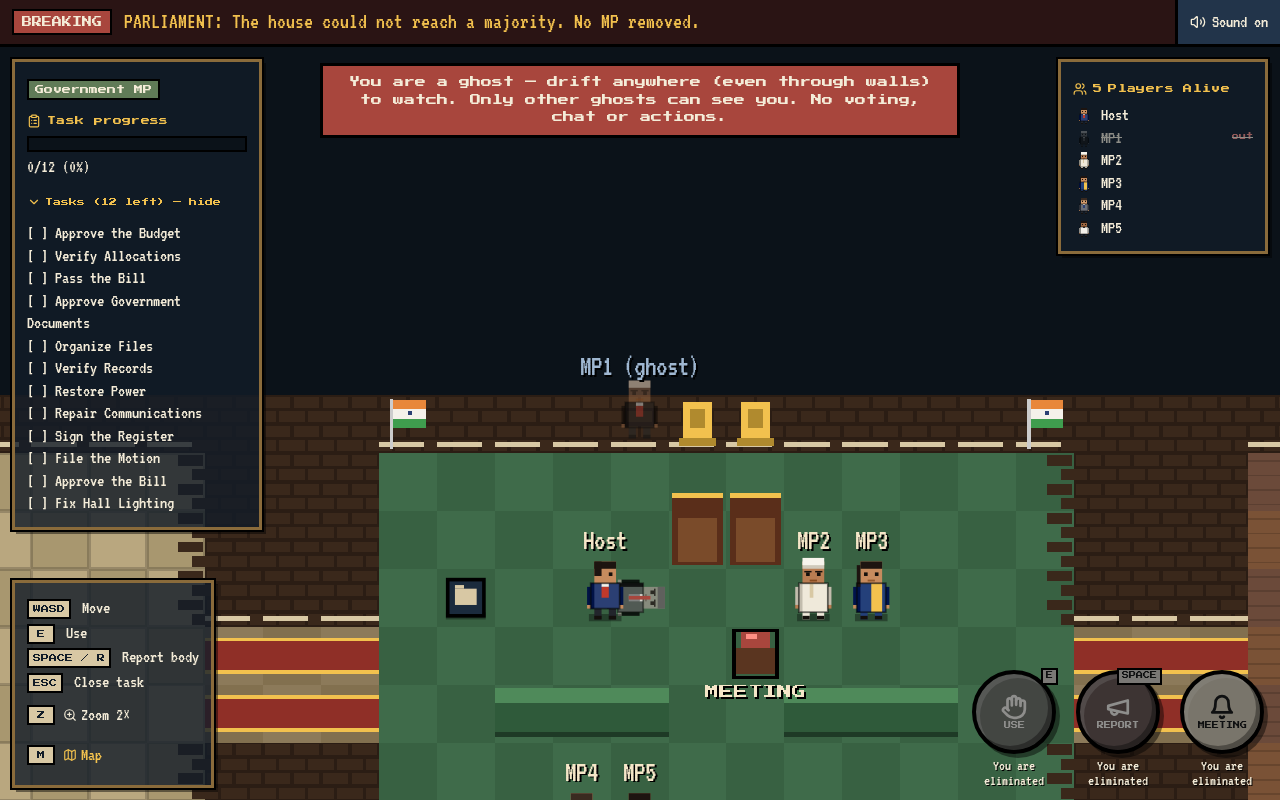
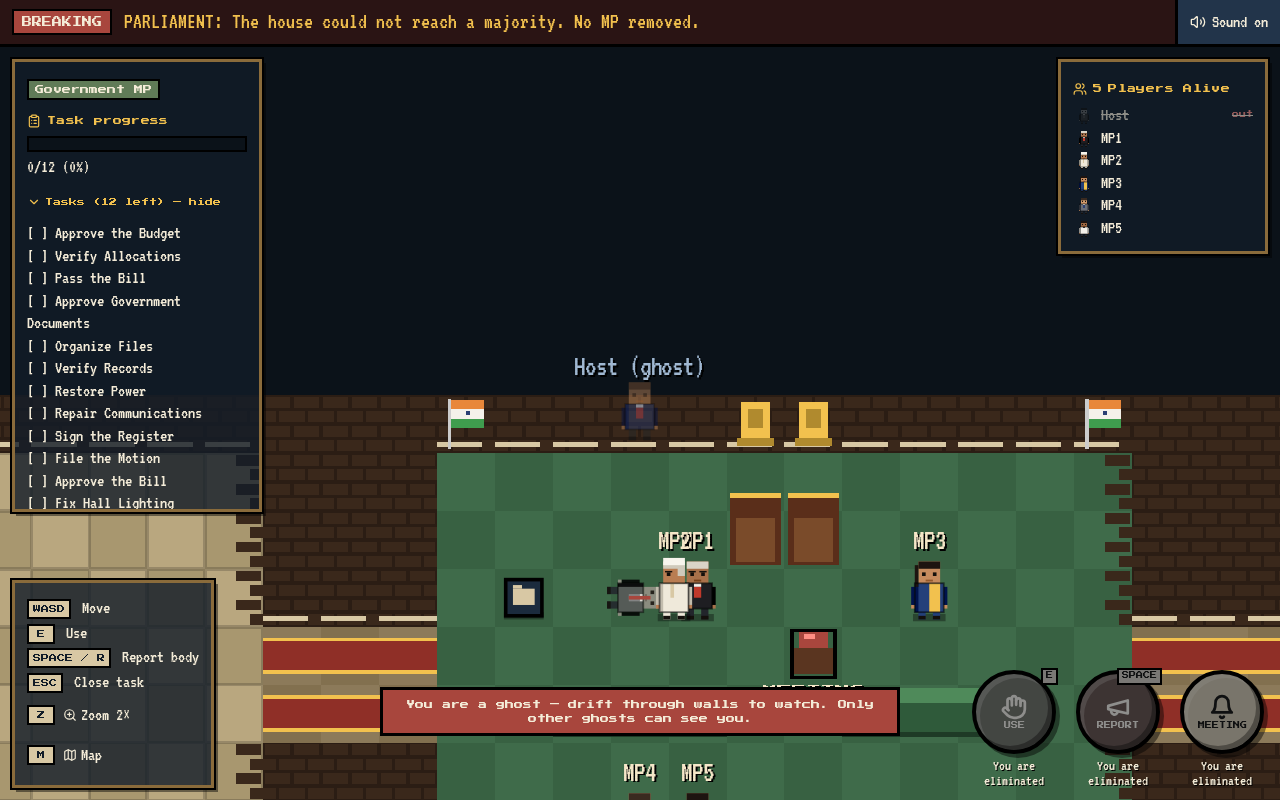
## All 4 features have been developed and successfully passed initial tests
- **Spectator Ghosts:** eliminated players can drift anywhere on the map, even through walls, shown as faded floating characters labelled "(ghost)".
  - Only other eliminated players can see a ghost move. Living players only see the spot where the player fell, so ghosts can't tip off the living.
  - Ghosts still can't use tasks, report, vote or chat. The eliminated banner is now a single slim line at the bottom of the screen.
- **Map Overlay:** press M, or click Map in the bottom-left controls, to see the full Parliament map.
  - It shows room names, a "YOU" marker and every station marked Open, Done or Offline (leak). Other players are not shown.
  - Press M or Esc to close. Your character doesn't move while the map is open.
- **Leak Clue:** when a meeting follows a Document Leak, every player sees a card: "X was last seen at the File the Motion station…".
  - It starts on the agent who leaked the files. Any living player who later walks up to the offline station takes the blame instead.
  - It only counts someone walking up to the station, not someone already standing there. It clears after each meeting.
- **Shared Clock:** each browser checks the time against the server when it connects, when a match starts and every 60 seconds. Every countdown uses this, including cooldowns, meeting timers and the Power Cut and Document Leak banners.
  - In testing, browsers set 90s fast, 2 minutes slow, 45s fast and 1 minute slow showed synchronization within 1 second.

**Tests:**
[…]

diff --git a/server/src/game/Match.ts b/server/src/game/Match.ts
@@ -116,7 +116,7 @@ export class Match {
   }
 
   /** `ghostView` = real ghost positions (sent only to eliminated players). */
-  publicPlayers(ghostView = true): PublicPlayer[] {
+  publicPlayers(ghostView = false): PublicPlayer[] {
     return [...this.players.values()].map((p) => ({
       id: p.id,
       name: p.name,
@@ -131,7 +131,7 @@ export class Match {
     }))
   }
 
-  view(ghostView = true): ClientMatchView {
+  view(ghostView = false): ClientMatchView {
     return {
       roomCode: this.roomCode,
       state: this.state,
@@ -372,8 +372,8 @@ export class Match {
     } else {
       duration = MATCH_SETTINGS.documentLeakDurationMs
       this.sabotage = { powerStatus: 'ON', powerRestoreAt: null, disabledTaskIds: [leakTask!.taskId], leakEndsAt: now + duration }
-      const nearest = this.livingPlayers.sort((a, b) => distance(a.position, leakTask!.position) - distance(b.position, leakTask!.position))[0]
-      this.leakClue = { taskId: leakTask!.taskId, stationLabel: leakTask!.label, playerId: nearest.id }
+      // Starts on the leaker; any living player who later steps up to the station takes over (Phase 3 clue).
+      this.leakClue = { taskId: leakTask!.taskId, stationLabel: leakTask!.label, playerId: p.id }
       for (const pl of this.players.values()) {
         if (pl.openTask?.taskId === leakTask!.taskId) {
           pl.openTask = null

diff --git a/client/src/pages/Game/index.tsx b/client/src/pages/Game/index.tsx
@@ -31,10 +31,10 @@ export default function Game() {
   const dispatch = useAppDispatch()
   const { match, role, feedback, feedbackAt, activeTaskId, eliminationReadyAt, sabotageReadyAt, interacting } = useAppSelector((s) => s.game)
   const { zoom, cycleZoom } = useZoom()
-  const { mapOpen, toggleMap, closeMap } = useMapToggle()
   const playerId = useAppSelector((s) => s.join.playerId)
   const me = useCurrentPlayer()
-  const { pos } = useLocalMovement()
+  const { mapOpen, toggleMap, closeMap } = useMapToggle()
+  const { pos } = useLocalMovement(mapOpen)
   useRerenderEvery(150) // keep proximity prompts + cooldowns fresh while the local player moves
   const { nearTask, nearBody, nearTarget, nearPanel, roomLabel } = useProximity(match, me, role, pos)
 
@@ -128,7 +128,7 @@ export default function Game() {
           {prompt && <div className="game__prompt" data-testid="interaction-prompt">{prompt}</div>}
           {!alive && match.state !== 'ROLE_ASSIGNMENT' && (
             <div className="game__dead" role="status" data-testid="eliminated-banner">
-              You are a ghost — drift anywhere (even through walls) to watch. Only other ghosts can see you. No voting, chat or actions.
+              You are a ghost — drift through walls to watch. Only other ghosts can see you.
             </div>
           )}
         </div>

diff --git a/client/src/pages/Game/Game.scss b/client/src/pages/Game/Game.scss
@@ -26,17 +26,17 @@
 
   &__dead {
     position: absolute;
-    top: var(--s-4);
+    bottom: 64px;
     left: 50%;
     transform: translateX(-50%);
     background: var(--c-red);
     border: 3px solid #000;
     padding: var(--s-2) var(--s-4);
     font-family: var(--f-heading);
-    font-size: 11px;
-    line-height: 1.6;
+    font-size: 9px;
+    line-height: 1.5;
     z-index: 7;
-    max-width: 90%;
+    max-width: 520px;
     text-align: center;
   }
 }
@@ -81,7 +81,7 @@
   box-shadow: var(--shadow-pixel);
   padding: var(--s-3);
 
-  &--tasks { top: var(--s-3); left: var(--s-3); width: 250px; max-height: calc(100% - 200px); overflow-y: auto; }
+  &--tasks { top: var(--s-3); left: var(--s-3); width: 250px; max-height: calc(100% - 300px); overflow-y: auto; }
   &--players { top: var(--s-3); right: var(--s-3); width: 210px; max-height: calc(100% - 200px); overflow-y: auto; }
   &--legend { bottom: var(--s-3); left: var(--s-3); font-size: 18px; p { margin: 2px 0; } }
 

diff --git a/client/src/api/serverEvents.ts b/client/src/api/serverEvents.ts
@@ -20,6 +20,7 @@ import { chatReceived, meetingStarted, voteCast, voteResults } from 'slices/meet
 import { gameOverReceived } from 'slices/results/reducer'
 import { playSound } from 'helpers/sound'
 import { syncClock } from 'slices/game/thunk'
+import { CLOCK_RESYNC_MS } from 'config/constants'
 
 export function bindServerEvents(socket: GameSocket, dispatch: Dispatch, getMeId: () => string | null) {
   // Thunk dispatch through the plain Dispatch type (store is configured with thunk middleware).
@@ -28,6 +29,8 @@ export function bindServerEvents(socket: GameSocket, dispatch: Dispatch, getMeId
     dispatch(setConnected(true))
     resync()
   })
+  // Periodic resync corrects drift (long sessions, laptop sleep).
+  setInterval(() => socket.connected && resync(), CLOCK_RESYNC_MS)
   socket.on('disconnect', () => {
     dispatch(setConnected(false))
     dispatch(connectionLost())

diff --git a/server/src/game/match-flow.test.ts b/server/src/game/match-flow.test.ts
@@ -289,7 +289,7 @@ describe('ghosts, leak clue (phase 3)', () => {
     // straight up into the top wall row (y=16 is wall) — allowed for a ghost
     expect(match.move(ghost.id, { x: start.x, y: start.y - 60 }, 'up', clock + 1000)).toBe(true)
     expect(match.move(ghost.id, { x: start.x, y: 2 }, 'up', clock + 2000)).toBe(false) // off-map
-    expect(match.view(false).players.find((p) => p.id === ghost.id)!.position).toEqual(start)
+    expect(match.view().players.find((p) => p.id === ghost.id)!.position).toEqual(start)
     expect(match.view(true).players.find((p) => p.id === ghost.id)!.position.y).toBe(start.y - 60)
     expect(match.openTask(ghost.id, match.tasks[0].taskId, tick())).toBe('You have been eliminated')
   })

diff --git a/client/src/pages/Game/hooks/useLocalMovement.ts b/client/src/pages/Game/hooks/useLocalMovement.ts
@@ -20,10 +20,10 @@ const KEYMAP: Record<string, Direction> = {
   KeyD: 'right', ArrowRight: 'right',
 }
 
-export function useLocalMovement() {
+export function useLocalMovement(paused = false) {
   const dispatch = useAppDispatch()
   const me = useCurrentPlayer()
-  const canMove = useAppSelector((s) => s.game.match?.state === 'PLAYING' && !s.game.activeTaskId)
+  const canMove = useAppSelector((s) => s.game.match?.state === 'PLAYING' && !s.game.activeTaskId) && !paused
   const pos = useRef<Vec2 | null>(null)
   const facing = useRef<Direction>('down')
   const held = useRef(new Set<Direction>())

diff --git a/client/src/config/constants.ts b/client/src/config/constants.ts
@@ -8,3 +8,5 @@ export const ANIM_FRAME_MS = 150
 export const ZOOM_LEVELS = [2, 1.4, 1] as const
 /** Camera follow smoothing per frame (0–1). */
 export const CAMERA_LERP = 0.18
+/** How often the client re-estimates the server clock offset. */
+export const CLOCK_RESYNC_MS = 60_000

diff --git a/memory/PRD.md b/memory/PRD.md
@@ -27,7 +27,14 @@ Out of scope: Media Center, journalists/lobbyists, bribery, voice chat, multiple
 - Starting elimination grace period 12s (MATCH_SETTINGS.initialEliminationCooldownMs).
 - Tests: 51 unit; e2e/acceptance.cjs 18/18; e2e/t1-features2.cjs all PASS.
 
+## Iteration 3 (2026-06)
+- Spectator ghosts: eliminated players drift through walls (map bounds), visible only to other ghosts (masked MATCH_STATE + ghost-only PLAYER_MOVED).
+- Map overlay (M / legend button): full map, room names, open/done/offline stations, YOU marker; movement paused while open.
+- Leak clue: meeting card "X was last seen at <station>" (starts on leaker, updated by any living player stepping up while offline; reset each round).
+- Shared clock: TIME_SYNC (lowest-RTT of 4 samples, resync every 60s); all countdowns use serverNow().
+- Tests: 55 unit; acceptance 18/18; e2e/phase3.cjs 5/5; testing agent iteration_3 21/21.
+
 ## Backlog
-- P1: map overlay (M), server-time offset for countdowns (client clock skew).
+- P1: deploy verification on Emergent hosting (Node server).
 - P2: rejoin after disconnect, voice chat.
 - Deployment: Emergent deploy pipeline expects backend/frontend layout — Node server deploy unverified.
